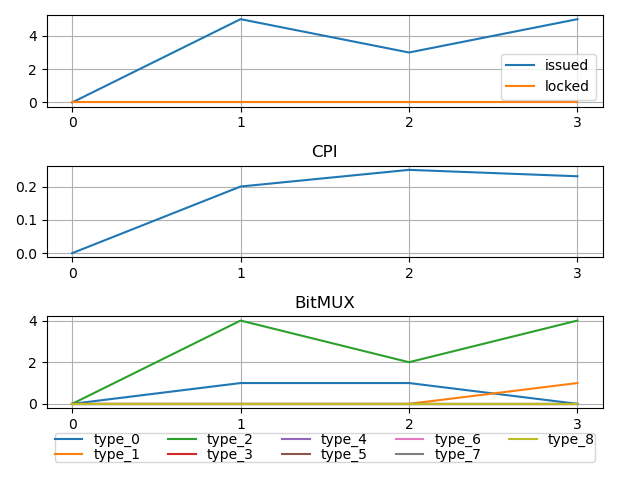
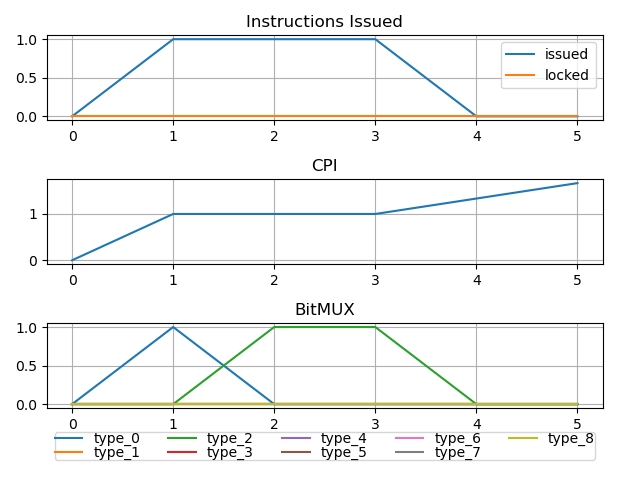
Final version

diff --git a/test.html b/test.html
@@ -14,145 +14,34 @@ body {
 </style>
 </head>
 <body>
-    <pre style="font-family:Menlo,'DejaVu Sans Mono',consolas,'Courier New',monospace"><code style="font-family:inherit"><span class="r1"> </span><span class="r1">3</span> <span class="r2">───────────────────────────────────────────────────────────────────────────────────────────────────────────────────────────────────────────────────────────────────────────────────────────</span>
-<span class="r3">                                              Hold Stations                                               </span>
-┏━━━━━━━━━━┳━━━━━┳━━━━━━━━━━━┳━━━━━━━━┳━━━━━┳━━━━━┳━━━━━━━━━━┳━━━━━━━━━━━━━┳━━━━━┳━━━━━┳━━━━━━━━┳━━━━━━━━┓
-┃<span class="r4"> occupied </span>┃<span class="r4"> HS  </span>┃<span class="r4"> case QSD? </span>┃<span class="r4"> bitMux </span>┃<span class="r4"> RP1 </span>┃<span class="r4"> RP2 </span>┃<span class="r4"> position </span>┃<span class="r4"> destination </span>┃<span class="r4"> FU1 </span>┃<span class="r4"> FU2 </span>┃<span class="r4"> value1 </span>┃<span class="r4"> value2 </span>┃
-┡━━━━━━━━━━╇━━━━━╇━━━━━━━━━━━╇━━━━━━━━╇━━━━━╇━━━━━╇━━━━━━━━━━╇━━━━━━━━━━━━━╇━━━━━╇━━━━━╇━━━━━━━━╇━━━━━━━━┩
-│    0     │ HS0 │   False   │        │     │     │          │             │     │     │        │        │
-│    0     │ HS1 │   False   │        │     │     │          │             │     │     │        │        │
-│    0     │ HS2 │   False   │        │     │     │          │             │     │     │        │        │
-│    0     │ HS3 │   False   │        │     │     │          │             │     │     │        │        │
-│    0     │ HS4 │   False   │        │     │     │          │             │     │     │        │        │
-│    0     │ HS5 │   False   │        │     │     │          │             │     │     │        │        │
-│    0     │ HS6 │   False   │        │     │     │          │             │     │     │        │        │
-│    0     │ HS7 │   False   │        │     │     │          │             │     │     │        │        │
-│    0     │ HS8 │   False   │        │     │     │          │             │     │     │        │        │
-│    0     │ HS9 │   False   │        │     │     │          │             │     │     │        │        │
-└──────────┴─────┴───────────┴────────┴─────┴─────┴──────────┴─────────────┴─────┴─────┴────────┴────────┘
-<span class="r3">                                                                               Functional Unit: alu                                                                                </span>
-╭─────────────────────────────────────────────────────────╮ ╭─────────────────────────────────────────────────────────╮ ╭─────────────────────────────────────────────────────────╮
-│ <span class="r3">                         alu_0                         </span> │ │ <span class="r3">                         alu_1                         </span> │ │ <span class="r3">                         alu_2                         </span> │
-│ ┏━━━━━┳━━━━━━┳━━━━┳━━━━━━━┳━━━━━━━┳━━━━━━━┳━━━━━━━━━━━┓ │ │ ┏━━━━━┳━━━━━━┳━━━━┳━━━━━━━┳━━━━━━━┳━━━━━━━┳━━━━━━━━━━━┓ │ │ ┏━━━━━┳━━━━━━┳━━━━┳━━━━━━━┳━━━━━━━┳━━━━━━━┳━━━━━━━━━━━┓ │
-│ ┃<span class="r4"> SS  </span>┃<span class="r4"> bMux </span>┃<span class="r4"> RP </span>┃<span class="r4">  FU1  </span>┃<span class="r4">  FU2  </span>┃<span class="r4"> value </span>┃<span class="r4"> instIndex </span>┃ │ │ ┃<span class="r4"> SS  </span>┃<span class="r4"> bMux </span>┃<span class="r4"> RP </span>┃<span class="r4">  FU1  </span>┃<span class="r4">  FU2  </span>┃<span class="r4"> value </span>┃<span class="r4"> instIndex </span>┃ │ │ ┃<span class="r4"> SS  </span>┃<span class="r4"> bMux </span>┃<span class="r4"> RP </span>┃<span class="r4">  FU1  </span>┃<span class="r4">  FU2  </span>┃<span class="r4"> value </span>┃<span class="r4"> instIndex </span>┃ │
-│ ┡━━━━━╇━━━━━━╇━━━━╇━━━━━━━╇━━━━━━━╇━━━━━━━╇━━━━━━━━━━━┩ │ │ ┡━━━━━╇━━━━━━╇━━━━╇━━━━━━━╇━━━━━━━╇━━━━━━━╇━━━━━━━━━━━┩ │ │ ┡━━━━━╇━━━━━━╇━━━━╇━━━━━━━╇━━━━━━━╇━━━━━━━╇━━━━━━━━━━━┩ │
-│ │ SS7 │      │    │       │       │       │           │ │ │ │ SS7 │      │    │       │       │       │           │ │ │ │ SS7 │      │    │       │       │       │           │ │
-│ │ SS6 │      │    │       │       │       │           │ │ │ │ SS6 │      │    │       │       │       │           │ │ │ │ SS6 │      │    │       │       │       │           │ │
-│ │ SS5 │      │    │       │       │       │           │ │ │ │ SS5 │      │    │       │       │       │           │ │ │ │ SS5 │  2   │ 3  │ alu_1 │ alu_2 │       │     4     │ │
-│ │ SS4 │      │    │       │       │       │           │ │ │ │ SS4 │      │    │       │       │       │           │ │ │ │ SS4 │      │    │       │       │       │           │ │
-│ │ SS3 │  2   │ 2  │ alu_2 │ alu_1 │       │     2     │ │ │ │ SS3 │  2   │ 2  │ alu_0 │ alu_1 │       │     3     │ │ │ │ SS3 │  2   │ 2  │ alu_1 │ alu_1 │       │     1     │ │
-│ │ SS2 │  2   │    │ alu_0 │ alu_0 │   1   │     6     │ │ │ │ SS2 │  2   │    │ alu_0 │ alu_1 │   1   │     4     │ │ │ │ SS2 │  2   │    │ alu_0 │ alu_2 │   1   │     5     │ │
-│ │ SS1 │      │    │       │       │       │           │ │ │ │ SS1 │  1   │    │  inm  │  R0   │   1   │     0     │ │ │ │ SS1 │      │    │       │       │       │           │ │
-│ │ SS0 │  2   │    │  R3   │ alu_0 │   6   │     3     │ │ │ │ SS0 │  2   │    │  R1   │ alu_0 │   2   │     1     │ │ │ │ SS0 │  2   │    │  R2   │ alu_0 │   4   │     2     │ │
-│ └─────┴──────┴────┴───────┴───────┴───────┴───────────┘ │ │ └─────┴──────┴────┴───────┴───────┴───────┴───────────┘ │ │ └─────┴──────┴────┴───────┴───────┴───────┴───────────┘ │
-│ <span class="r3">         QSD_0          </span>                                │ │ <span class="r3">         QSD_1          </span>                                │ │ <span class="r3">         QSD_2          </span>                                │
-│ ┏━━━━┳━━━━┳━━━━┳━━━━━━━┓                                │ │ ┏━━━━┳━━━━┳━━━━┳━━━━━━━┓                                │ │ ┏━━━━┳━━━━┳━━━━┳━━━━━━━┓                                │
-│ ┃<span class="r4"> P  </span>┃<span class="r4"> RP </span>┃<span class="r4"> FU </span>┃<span class="r4"> value </span>┃                                │ │ ┃<span class="r4"> P  </span>┃<span class="r4"> RP </span>┃<span class="r4"> FU </span>┃<span class="r4"> value </span>┃                                │ │ ┃<span class="r4"> P  </span>┃<span class="r4"> RP </span>┃<span class="r4"> FU </span>┃<span class="r4"> value </span>┃                                │
-│ ┡━━━━╇━━━━╇━━━━╇━━━━━━━┩                                │ │ ┡━━━━╇━━━━╇━━━━╇━━━━━━━┩                                │ │ ┡━━━━╇━━━━╇━━━━╇━━━━━━━┩                                │
-│ │ Q2 │    │    │ None  │                                │ │ │ Q2 │    │    │ None  │                                │ │ │ Q2 │    │    │ None  │                                │
-│ │ Q1 │    │    │ None  │                                │ │ │ Q1 │    │    │   1   │                                │ │ │ Q1 │    │    │ None  │                                │
-│ │ Q0 │    │    │   1   │                                │ │ │ Q0 │    │    │   1   │                                │ │ │ Q0 │    │    │   1   │                                │
-│ └────┴────┴────┴───────┘                                │ │ └────┴────┴────┴───────┘                                │ │ └────┴────┴────┴───────┘                                │
-╰─────────────────────────────────────────────────────────╯ ╰─────────────────────────────────────────────────────────╯ ╰─────────────────────────────────────────────────────────╯
+    <pre style="font-family:Menlo,'DejaVu Sans Mono',consolas,'Courier New',monospace"><code style="font-family:inherit"><span class="r1"> </span><span class="r1">5</span> <span class="r2">───────────────────────────────────────────────────────────────────────────────────────────────────────────────────────────────────────────────────────────────────────────────────────────</span>
+<span class="r3">                                                                           Functional Unit: alu                                                                            </span>
+╭─────────────────────────────────────────────────────╮ ╭─────────────────────────────────────────────────────╮ ╭─────────────────────────────────────────────────────────╮
+│ <span class="r3">                       alu_0                       </span> │ │ <span class="r3">                       alu_1                       </span> │ │ <span class="r3">                         alu_2                         </span> │
+│ ┏━━━━━┳━━━━━━┳━━━━┳━━━━━┳━━━━━┳━━━━━━━┳━━━━━━━━━━━┓ │ │ ┏━━━━━┳━━━━━━┳━━━━┳━━━━━┳━━━━━┳━━━━━━━┳━━━━━━━━━━━┓ │ │ ┏━━━━━┳━━━━━━┳━━━━┳━━━━━━━┳━━━━━━━┳━━━━━━━┳━━━━━━━━━━━┓ │
+│ ┃<span class="r4"> SS  </span>┃<span class="r4"> bMux </span>┃<span class="r4"> RP </span>┃<span class="r4"> FU1 </span>┃<span class="r4"> FU2 </span>┃<span class="r4"> value </span>┃<span class="r4"> instIndex </span>┃ │ │ ┃<span class="r4"> SS  </span>┃<span class="r4"> bMux </span>┃<span class="r4"> RP </span>┃<span class="r4"> FU1 </span>┃<span class="r4"> FU2 </span>┃<span class="r4"> value </span>┃<span class="r4"> instIndex </span>┃ │ │ ┃<span class="r4"> SS  </span>┃<span class="r4"> bMux </span>┃<span class="r4"> RP </span>┃<span class="r4">  FU1  </span>┃<span class="r4">  FU2  </span>┃<span class="r4"> value </span>┃<span class="r4"> instIndex </span>┃ │
+│ ┡━━━━━╇━━━━━━╇━━━━╇━━━━━╇━━━━━╇━━━━━━━╇━━━━━━━━━━━┩ │ │ ┡━━━━━╇━━━━━━╇━━━━╇━━━━━╇━━━━━╇━━━━━━━╇━━━━━━━━━━━┩ │ │ ┡━━━━━╇━━━━━━╇━━━━╇━━━━━━━╇━━━━━━━╇━━━━━━━╇━━━━━━━━━━━┩ │
+│ │ SS7 │      │    │     │     │       │           │ │ │ │ SS7 │      │    │     │     │       │           │ │ │ │ SS7 │      │    │       │       │       │           │ │
+│ │ SS6 │      │    │     │     │       │           │ │ │ │ SS6 │      │    │     │     │       │           │ │ │ │ SS6 │      │    │       │       │       │           │ │
+│ │ SS5 │      │    │     │     │       │           │ │ │ │ SS5 │      │    │     │     │       │           │ │ │ │ SS5 │      │    │       │       │       │           │ │
+│ │ SS4 │      │    │     │     │       │           │ │ │ │ SS4 │      │    │     │     │       │           │ │ │ │ SS4 │      │    │       │       │       │           │ │
+│ │ SS3 │      │    │     │     │       │           │ │ │ │ SS3 │      │    │     │     │       │           │ │ │ │ SS3 │      │    │       │       │       │           │ │
+│ │ SS2 │      │    │     │     │       │           │ │ │ │ SS2 │      │    │     │     │       │           │ │ │ │ SS2 │      │    │       │       │       │           │ │
+│ │ SS1 │      │    │     │     │       │           │ │ │ │ SS1 │      │    │     │     │       │           │ │ │ │ SS1 │      │    │       │       │       │           │ │
+│ │ SS0 │      │    │     │     │       │           │ │ │ │ SS0 │      │    │     │     │       │           │ │ │ │ SS0 │  2   │    │ alu_1 │ alu_1 │  10   │     2     │ │
+│ └─────┴──────┴────┴─────┴─────┴───────┴───────────┘ │ │ └─────┴──────┴────┴─────┴─────┴───────┴───────────┘ │ │ └─────┴──────┴────┴───────┴───────┴───────┴───────────┘ │
+│ <span class="r3">         QSD_0          </span>                            │ │ <span class="r3">         QSD_1          </span>                            │ │ <span class="r3">         QSD_2          </span>                                │
+│ ┏━━━━┳━━━━┳━━━━┳━━━━━━━┓                            │ │ ┏━━━━┳━━━━┳━━━━┳━━━━━━━┓                            │ │ ┏━━━━┳━━━━┳━━━━┳━━━━━━━┓                                │
+│ ┃<span class="r4"> P  </span>┃<span class="r4"> RP </span>┃<span class="r4"> FU </span>┃<span class="r4"> value </span>┃                            │ │ ┃<span class="r4"> P  </span>┃<span class="r4"> RP </span>┃<span class="r4"> FU </span>┃<span class="r4"> value </span>┃                            │ │ ┃<span class="r4"> P  </span>┃<span class="r4"> RP </span>┃<span class="r4"> FU </span>┃<span class="r4"> value </span>┃                                │
+│ ┡━━━━╇━━━━╇━━━━╇━━━━━━━┩                            │ │ ┡━━━━╇━━━━╇━━━━╇━━━━━━━┩                            │ │ ┡━━━━╇━━━━╇━━━━╇━━━━━━━┩                                │
+│ │ Q2 │    │    │ None  │                            │ │ │ Q2 │    │    │ None  │                            │ │ │ Q2 │    │    │ None  │                                │
+│ │ Q1 │    │    │ None  │                            │ │ │ Q1 │    │    │ None  │                            │ │ │ Q1 │    │    │ None  │                                │
+│ │ Q0 │    │    │ None  │                            │ │ │ Q0 │    │    │ None  │                            │ │ │ Q0 │    │    │  10   │                                │
+│ └────┴────┴────┴───────┘                            │ │ └────┴────┴────┴───────┘                            │ │ └────┴────┴────┴───────┘                                │
+╰─────────────────────────────────────────────────────╯ ╰─────────────────────────────────────────────────────╯ ╰─────────────────────────────────────────────────────────╯
 <span class="r3">                                                                         Functional Unit: MULT                                                                         </span>
 ╭─────────────────────────────────────────────────────╮ ╭─────────────────────────────────────────────────────╮ ╭─────────────────────────────────────────────────────╮
 │ <span class="r3">                      MULT_0                       </span> │ │ <span class="r3">                      MULT_1                       </span> │ │ <span class="r3">                      MULT_2                       </span> │
-│ ┏━━━━━┳━━━━━━┳━━━━┳━━━━━┳━━━━━┳━━━━━━━┳━━━━━━━━━━━┓ │ │ ┏━━━━━┳━━━━━━┳━━━━┳━━━━━┳━━━━━┳━━━━━━━┳━━━━━━━━━━━┓ │ │ ┏━━━━━┳━━━━━━┳━━━━┳━━━━━┳━━━━━┳━━━━━━━┳━━━━━━━━━━━┓ │
-│ ┃<span class="r4"> SS  </span>┃<span class="r4"> bMux </span>┃<span class="r4"> RP </span>┃<span class="r4"> FU1 </span>┃<span class="r4"> FU2 </span>┃<span class="r4"> value </span>┃<span class="r4"> instIndex </span>┃ │ │ ┃<span class="r4"> SS  </span>┃<span class="r4"> bMux </span>┃<span class="r4"> RP </span>┃<span class="r4"> FU1 </span>┃<span class="r4"> FU2 </span>┃<span class="r4"> value </span>┃<span class="r4"> instIndex </span>┃ │ │ ┃<span class="r4"> SS  </span>┃<span class="r4"> bMux </span>┃<span class="r4"> RP </span>┃<span class="r4"> FU1 </span>┃<span class="r4"> FU2 </span>┃<span class="r4"> value </span>┃<span class="r4"> instIndex </span>┃ │
-│ ┡━━━━━╇━━━━━━╇━━━━╇━━━━━╇━━━━━╇━━━━━━━╇━━━━━━━━━━━┩ │ │ ┡━━━━━╇━━━━━━╇━━━━╇━━━━━╇━━━━━╇━━━━━━━╇━━━━━━━━━━━┩ │ │ ┡━━━━━╇━━━━━━╇━━━━╇━━━━━╇━━━━━╇━━━━━━━╇━━━━━━━━━━━┩ │
-│ │ SS7 │      │    │     │     │       │           │ │ │ │ SS7 │      │    │     │     │       │           │ │ │ │ SS7 │      │    │     │     │       │           │ │
-│ │ SS6 │      │    │     │     │       │           │ │ │ │ SS6 │      │    │     │     │       │           │ │ │ │ SS6 │      │    │     │     │       │           │ │
-│ │ SS5 │      │    │     │     │       │           │ │ │ │ SS5 │      │    │     │     │       │           │ │ │ │ SS5 │      │    │     │     │       │           │ │
-│ │ SS4 │      │    │     │     │       │           │ │ │ │ SS4 │      │    │     │     │       │           │ │ │ │ SS4 │      │    │     │     │       │           │ │
-│ │ SS3 │      │    │     │     │       │           │ │ │ │ SS3 │      │    │     │     │       │           │ │ │ │ SS3 │      │    │     │     │       │           │ │
-│ │ SS2 │      │    │     │     │       │           │ │ │ │ SS2 │      │    │     │     │       │           │ │ │ │ SS2 │      │    │     │     │       │           │ │
-│ │ SS1 │      │    │     │     │       │           │ │ │ │ SS1 │      │    │     │     │       │           │ │ │ │ SS1 │      │    │     │     │       │           │ │
-│ │ SS0 │      │    │     │     │       │           │ │ │ │ SS0 │      │    │     │     │       │           │ │ │ │ SS0 │      │    │     │     │       │           │ │
-│ └─────┴──────┴────┴─────┴─────┴───────┴───────────┘ │ │ └─────┴──────┴────┴─────┴─────┴───────┴───────────┘ │ │ └─────┴──────┴────┴─────┴─────┴───────┴───────────┘ │
-│ <span class="r3">         QSD_0          </span>                            │ │ <span class="r3">         QSD_1          </span>                            │ │ <span class="r3">         QSD_2          </span>                            │
-│ ┏━━━━┳━━━━┳━━━━┳━━━━━━━┓                            │ │ ┏━━━━┳━━━━┳━━━━┳━━━━━━━┓                            │ │ ┏━━━━┳━━━━┳━━━━┳━━━━━━━┓                            │
-│ ┃<span class="r4"> P  </span>┃<span class="r4"> RP </span>┃<span class="r4"> FU </span>┃<span class="r4"> value </span>┃                            │ │ ┃<span class="r4"> P  </span>┃<span class="r4"> RP </span>┃<span class="r4"> FU </span>┃<span class="r4"> value </span>┃                            │ │ ┃<span class="r4"> P  </span>┃<span class="r4"> RP </span>┃<span class="r4"> FU </span>┃<span class="r4"> value </span>┃                            │
-│ ┡━━━━╇━━━━╇━━━━╇━━━━━━━┩                            │ │ ┡━━━━╇━━━━╇━━━━╇━━━━━━━┩                            │ │ ┡━━━━╇━━━━╇━━━━╇━━━━━━━┩                            │
-│ │ Q2 │    │    │ None  │                            │ │ │ Q2 │    │    │ None  │                            │ │ │ Q2 │    │    │ None  │                            │
-│ │ Q1 │    │    │ None  │                            │ │ │ Q1 │    │    │ None  │                            │ │ │ Q1 │    │    │ None  │                            │
-│ │ Q0 │    │    │ None  │                            │ │ │ Q0 │    │    │ None  │                            │ │ │ Q0 │    │    │ None  │                            │
-│ └────┴────┴────┴───────┘                            │ │ └────┴────┴────┴───────┘                            │ │ └────┴────┴────┴───────┘                            │
-╰─────────────────────────────────────────────────────╯ ╰─────────────────────────────────────────────────────╯ ╰─────────────────────────────────────────────────────╯
-<span class="r3">                                                                         Functional Unit: DIV                                                                          </span>
-╭─────────────────────────────────────────────────────╮ ╭─────────────────────────────────────────────────────╮ ╭─────────────────────────────────────────────────────╮
-│ <span class="r3">                       DIV_0                       </span> │ │ <span class="r3">                       DIV_1                       </span> │ │ <span class="r3">                       DIV_2                       </span> │
-│ ┏━━━━━┳━━━━━━┳━━━━┳━━━━━┳━━━━━┳━━━━━━━┳━━━━━━━━━━━┓ │ │ ┏━━━━━┳━━━━━━┳━━━━┳━━━━━┳━━━━━┳━━━━━━━┳━━━━━━━━━━━┓ │ │ ┏━━━━━┳━━━━━━┳━━━━┳━━━━━┳━━━━━┳━━━━━━━┳━━━━━━━━━━━┓ │
-│ ┃<span class="r4"> SS  </span>┃<span class="r4"> bMux </span>┃<span class="r4"> RP </span>┃<span class="r4"> FU1 </span>┃<span class="r4"> FU2 </span>┃<span class="r4"> value </span>┃<span class="r4"> instIndex </span>┃ │ │ ┃<span class="r4"> SS  </span>┃<span class="r4"> bMux </span>┃<span class="r4"> RP </span>┃<span class="r4"> FU1 </span>┃<span class="r4"> FU2 </span>┃<span class="r4"> value </span>┃<span class="r4"> instIndex </span>┃ │ │ ┃<span class="r4"> SS  </span>┃<span class="r4"> bMux </span>┃<span class="r4"> RP </span>┃<span class="r4"> FU1 </span>┃<span class="r4"> FU2 </span>┃<span class="r4"> value </span>┃<span class="r4"> instIndex </span>┃ │
-│ ┡━━━━━╇━━━━━━╇━━━━╇━━━━━╇━━━━━╇━━━━━━━╇━━━━━━━━━━━┩ │ │ ┡━━━━━╇━━━━━━╇━━━━╇━━━━━╇━━━━━╇━━━━━━━╇━━━━━━━━━━━┩ │ │ ┡━━━━━╇━━━━━━╇━━━━╇━━━━━╇━━━━━╇━━━━━━━╇━━━━━━━━━━━┩ │
-│ │ SS7 │      │    │     │     │       │           │ │ │ │ SS7 │      │    │     │     │       │           │ │ │ │ SS7 │      │    │     │     │       │           │ │
-│ │ SS6 │      │    │     │     │       │           │ │ │ │ SS6 │      │    │     │     │       │           │ │ │ │ SS6 │      │    │     │     │       │           │ │
-│ │ SS5 │      │    │     │     │       │           │ │ │ │ SS5 │      │    │     │     │       │           │ │ │ │ SS5 │      │    │     │     │       │           │ │
-│ │ SS4 │      │    │     │     │       │           │ │ │ │ SS4 │      │    │     │     │       │           │ │ │ │ SS4 │      │    │     │     │       │           │ │
-│ │ SS3 │      │    │     │     │       │           │ │ │ │ SS3 │      │    │     │     │       │           │ │ │ │ SS3 │      │    │     │     │       │           │ │
-│ │ SS2 │      │    │     │     │       │           │ │ │ │ SS2 │      │    │     │     │       │           │ │ │ │ SS2 │      │    │     │     │       │           │ │
-│ │ SS1 │      │    │     │     │       │           │ │ │ │ SS1 │      │    │     │     │       │           │ │ │ │ SS1 │      │    │     │     │       │           │ │
-│ │ SS0 │      │    │     │     │       │           │ │ │ │ SS0 │      │    │     │     │       │           │ │ │ │ SS0 │      │    │     │     │       │           │ │
-│ └─────┴──────┴────┴─────┴─────┴───────┴───────────┘ │ │ └─────┴──────┴────┴─────┴─────┴───────┴───────────┘ │ │ └─────┴──────┴────┴─────┴─────┴───────┴───────────┘ │
-│ <span class="r3">         QSD_0          </span>                            │ │ <span class="r3">         QSD_1          </span>                            │ │ <span class="r3">         QSD_2          </span>                            │
-│ ┏━━━━┳━━━━┳━━━━┳━━━━━━━┓                            │ │ ┏━━━━┳━━━━┳━━━━┳━━━━━━━┓                            │ │ ┏━━━━┳━━━━┳━━━━┳━━━━━━━┓                            │
-│ ┃<span class="r4"> P  </span>┃<span class="r4"> RP </span>┃<span class="r4"> FU </span>┃<span class="r4"> value </span>┃                            │ │ ┃<span class="r4"> P  </span>┃<span class="r4"> RP </span>┃<span class="r4"> FU </span>┃<span class="r4"> value </span>┃                            │ │ ┃<span class="r4"> P  </span>┃<span class="r4"> RP </span>┃<span class="r4"> FU </span>┃<span class="r4"> value </span>┃                            │
-│ ┡━━━━╇━━━━╇━━━━╇━━━━━━━┩                            │ │ ┡━━━━╇━━━━╇━━━━╇━━━━━━━┩                            │ │ ┡━━━━╇━━━━╇━━━━╇━━━━━━━┩                            │
-│ │ Q2 │    │    │ None  │                            │ │ │ Q2 │    │    │ None  │                            │ │ │ Q2 │    │    │ None  │                            │
-│ │ Q1 │    │    │ None  │                            │ │ │ Q1 │    │    │ None  │                            │ │ │ Q1 │    │    │ None  │                            │
-│ │ Q0 │    │    │ None  │                            │ │ │ Q0 │    │    │ None  │                            │ │ │ Q0 │    │    │ None  │                            │
-│ └────┴────┴────┴───────┘                            │ │ └────┴────┴────┴───────┘                            │ │ └────┴────┴────┴───────┘                            │
-╰─────────────────────────────────────────────────────╯ ╰─────────────────────────────────────────────────────╯ ╰─────────────────────────────────────────────────────╯
-<span class="r3">                                                                        Functional Unit: TRANS                                                                         </span>
-╭─────────────────────────────────────────────────────╮ ╭─────────────────────────────────────────────────────╮ ╭─────────────────────────────────────────────────────╮
-│ <span class="r3">                      TRANS_0                      </span> │ │ <span class="r3">                      TRANS_1                      </span> │ │ <span class="r3">                      TRANS_2                      </span> │
-│ ┏━━━━━┳━━━━━━┳━━━━┳━━━━━┳━━━━━┳━━━━━━━┳━━━━━━━━━━━┓ │ │ ┏━━━━━┳━━━━━━┳━━━━┳━━━━━┳━━━━━┳━━━━━━━┳━━━━━━━━━━━┓ │ │ ┏━━━━━┳━━━━━━┳━━━━┳━━━━━┳━━━━━┳━━━━━━━┳━━━━━━━━━━━┓ │
-│ ┃<span class="r4"> SS  </span>┃<span class="r4"> bMux </span>┃<span class="r4"> RP </span>┃<span class="r4"> FU1 </span>┃<span class="r4"> FU2 </span>┃<span class="r4"> value </span>┃<span class="r4"> instIndex </span>┃ │ │ ┃<span class="r4"> SS  </span>┃<span class="r4"> bMux </span>┃<span class="r4"> RP </span>┃<span class="r4"> FU1 </span>┃<span class="r4"> FU2 </span>┃<span class="r4"> value </span>┃<span class="r4"> instIndex </span>┃ │ │ ┃<span class="r4"> SS  </span>┃<span class="r4"> bMux </span>┃<span class="r4"> RP </span>┃<span class="r4"> FU1 </span>┃<span class="r4"> FU2 </span>┃<span class="r4"> value </span>┃<span class="r4"> instIndex </span>┃ │
-│ ┡━━━━━╇━━━━━━╇━━━━╇━━━━━╇━━━━━╇━━━━━━━╇━━━━━━━━━━━┩ │ │ ┡━━━━━╇━━━━━━╇━━━━╇━━━━━╇━━━━━╇━━━━━━━╇━━━━━━━━━━━┩ │ │ ┡━━━━━╇━━━━━━╇━━━━╇━━━━━╇━━━━━╇━━━━━━━╇━━━━━━━━━━━┩ │
-│ │ SS7 │      │    │     │     │       │           │ │ │ │ SS7 │      │    │     │     │       │           │ │ │ │ SS7 │      │    │     │     │       │           │ │
-│ │ SS6 │      │    │     │     │       │           │ │ │ │ SS6 │      │    │     │     │       │           │ │ │ │ SS6 │      │    │     │     │       │           │ │
-│ │ SS5 │      │    │     │     │       │           │ │ │ │ SS5 │      │    │     │     │       │           │ │ │ │ SS5 │      │    │     │     │       │           │ │
-│ │ SS4 │      │    │     │     │       │           │ │ │ │ SS4 │      │    │     │     │       │           │ │ │ │ SS4 │      │    │     │     │       │           │ │
-│ │ SS3 │      │    │     │     │       │           │ │ │ │ SS3 │      │    │     │     │       │           │ │ │ │ SS3 │      │    │     │     │       │           │ │
-│ │ SS2 │      │    │     │     │       │           │ │ │ │ SS2 │      │    │     │     │       │           │ │ │ │ SS2 │      │    │     │     │       │           │ │
-│ │ SS1 │      │    │     │     │       │           │ │ │ │ SS1 │      │    │     │     │       │           │ │ │ │ SS1 │      │    │     │     │       │           │ │
-│ │ SS0 │      │    │     │     │       │           │ │ │ │ SS0 │      │    │     │     │       │           │ │ │ │ SS0 │      │    │     │     │       │           │ │
-│ └─────┴──────┴────┴─────┴─────┴───────┴───────────┘ │ │ └─────┴──────┴────┴─────┴─────┴───────┴───────────┘ │ │ └─────┴──────┴────┴─────┴─────┴───────┴───────────┘ │
-│ <span class="r3">         QSD_0          </span>                            │ │ <span class="r3">         QSD_1          </span>                            │ │ <span class="r3">         QSD_2          </span>                            │
-│ ┏━━━━┳━━━━┳━━━━┳━━━━━━━┓                            │ │ ┏━━━━┳━━━━┳━━━━┳━━━━━━━┓                            │ │ ┏━━━━┳━━━━┳━━━━┳━━━━━━━┓                            │
-│ ┃<span class="r4"> P  </span>┃<span class="r4"> RP </span>┃<span class="r4"> FU </span>┃<span class="r4"> value </span>┃                            │ │ ┃<span class="r4"> P  </span>┃<span class="r4"> RP </span>┃<span class="r4"> FU </span>┃<span class="r4"> value </span>┃                            │ │ ┃<span class="r4"> P  </span>┃<span class="r4"> RP </span>┃<span class="r4"> FU </span>┃<span class="r4"> value </span>┃                            │
-│ ┡━━━━╇━━━━╇━━━━╇━━━━━━━┩                            │ │ ┡━━━━╇━━━━╇━━━━╇━━━━━━━┩                            │ │ ┡━━━━╇━━━━╇━━━━╇━━━━━━━┩                            │
-│ │ Q2 │    │    │ None  │                            │ │ │ Q2 │    │    │ None  │                            │ │ │ Q2 │    │    │ None  │                            │
-│ │ Q1 │    │    │ None  │                            │ │ │ Q1 │    │    │ None  │                            │ │ │ Q1 │    │    │ None  │                            │
-│ │ Q0 │    │    │ None  │                            │ │ │ Q0 │    │    │ None  │                            │ │ │ Q0 │    │    │ None  │                            │
-│ └────┴────┴────┴───────┘                            │ │ └────┴────┴────┴───────┘                            │ │ └────┴────┴────┴───────┘                            │
-╰─────────────────────────────────────────────────────╯ ╰─────────────────────────────────────────────────────╯ ╰─────────────────────────────────────────────────────╯
-<span class="r3">                                                                        Functional Unit: STORE                                                                         </span>
-╭─────────────────────────────────────────────────────╮ ╭─────────────────────────────────────────────────────╮ ╭─────────────────────────────────────────────────────╮
-│ <span class="r3">                      STORE_0                      </span> │ │ <span class="r3">                      STORE_1                      </span> │ │ <span class="r3">                      STORE_2                      </span> │
-│ ┏━━━━━┳━━━━━━┳━━━━┳━━━━━┳━━━━━┳━━━━━━━┳━━━━━━━━━━━┓ │ │ ┏━━━━━┳━━━━━━┳━━━━┳━━━━━┳━━━━━┳━━━━━━━┳━━━━━━━━━━━┓ │ │ ┏━━━━━┳━━━━━━┳━━━━┳━━━━━┳━━━━━┳━━━━━━━┳━━━━━━━━━━━┓ │
-│ ┃<span class="r4"> SS  </span>┃<span class="r4"> bMux </span>┃<span class="r4"> RP </span>┃<span class="r4"> FU1 </span>┃<span class="r4"> FU2 </span>┃<span class="r4"> value </span>┃<span class="r4"> instIndex </span>┃ │ │ ┃<span class="r4"> SS  </span>┃<span class="r4"> bMux </span>┃<span class="r4"> RP </span>┃<span class="r4"> FU1 </span>┃<span class="r4"> FU2 </span>┃<span class="r4"> value </span>┃<span class="r4"> instIndex </span>┃ │ │ ┃<span class="r4"> SS  </span>┃<span class="r4"> bMux </span>┃<span class="r4"> RP </span>┃<span class="r4"> FU1 </span>┃<span class="r4"> FU2 </span>┃<span class="r4"> value </span>┃<span class="r4"> instIndex </span>┃ │
-│ ┡━━━━━╇━━━━━━╇━━━━╇━━━━━╇━━━━━╇━━━━━━━╇━━━━━━━━━━━┩ │ │ ┡━━━━━╇━━━━━━╇━━━━╇━━━━━╇━━━━━╇━━━━━━━╇━━━━━━━━━━━┩ │ │ ┡━━━━━╇━━━━━━╇━━━━╇━━━━━╇━━━━━╇━━━━━━━╇━━━━━━━━━━━┩ │
-│ │ SS7 │      │    │     │     │       │           │ │ │ │ SS7 │      │    │     │     │       │           │ │ │ │ SS7 │      │    │     │     │       │           │ │
-│ │ SS6 │      │    │     │     │       │           │ │ │ │ SS6 │      │    │     │     │       │           │ │ │ │ SS6 │      │    │     │     │       │           │ │
-│ │ SS5 │      │    │     │     │       │           │ │ │ │ SS5 │      │    │     │     │       │           │ │ │ │ SS5 │      │    │     │     │       │           │ │
-│ │ SS4 │      │    │     │     │       │           │ │ │ │ SS4 │      │    │     │     │       │           │ │ │ │ SS4 │      │    │     │     │       │           │ │
-│ │ SS3 │      │    │     │     │       │           │ │ │ │ SS3 │      │    │     │     │       │           │ │ │ │ SS3 │      │    │     │     │       │           │ │
-│ │ SS2 │      │    │     │     │       │           │ │ │ │ SS2 │      │    │     │     │       │           │ │ │ │ SS2 │      │    │     │     │       │           │ │
-│ │ SS1 │      │    │     │     │       │           │ │ │ │ SS1 │      │    │     │     │       │           │ │ │ │ SS1 │      │    │     │     │       │           │ │
-│ │ SS0 │      │    │     │     │       │           │ │ │ │ SS0 │      │    │     │     │       │           │ │ │ │ SS0 │      │    │     │     │       │           │ │
-│ └─────┴──────┴────┴─────┴─────┴───────┴───────────┘ │ │ └─────┴──────┴────┴─────┴─────┴───────┴───────────┘ │ │ └─────┴──────┴────┴─────┴─────┴───────┴───────────┘ │
-│ <span class="r3">         QSD_0          </span>                            │ │ <span class="r3">         QSD_1          </span>                            │ │ <span class="r3">         QSD_2          </span>                            │
-│ ┏━━━━┳━━━━┳━━━━┳━━━━━━━┓                            │ │ ┏━━━━┳━━━━┳━━━━┳━━━━━━━┓                            │ │ ┏━━━━┳━━━━┳━━━━┳━━━━━━━┓                            │
-│ ┃<span class="r4"> P  </span>┃<span class="r4"> RP </span>┃<span class="r4"> FU </span>┃<span class="r4"> value </span>┃                            │ │ ┃<span class="r4"> P  </span>┃<span class="r4"> RP </span>┃<span class="r4"> FU </span>┃<span class="r4"> value </span>┃                            │ │ ┃<span class="r4"> P  </span>┃<span class="r4"> RP </span>┃<span class="r4"> FU </span>┃<span class="r4"> value </span>┃                            │
-│ ┡━━━━╇━━━━╇━━━━╇━━━━━━━┩                            │ │ ┡━━━━╇━━━━╇━━━━╇━━━━━━━┩                            │ │ ┡━━━━╇━━━━╇━━━━╇━━━━━━━┩                            │
-│ │ Q2 │    │    │ None  │                            │ │ │ Q2 │    │    │ None  │                            │ │ │ Q2 │    │    │ None  │                            │
-│ │ Q1 │    │    │ None  │                            │ │ │ Q1 │    │    │ None  │                            │ │ │ Q1 │    │    │ None  │                            │
-│ │ Q0 │    │    │ None  │                            │ │ │ Q0 │    │    │ None  │                            │ │ │ Q0 │    │    │ None  │                            │
-│ └────┴────┴────┴───────┘                            │ │ └────┴────┴────┴───────┘                            │ │ └────┴────┴────┴───────┘                            │
-╰─────────────────────────────────────────────────────╯ ╰─────────────────────────────────────────────────────╯ ╰─────────────────────────────────────────────────────╯
-<span class="r3">                                                                         Functional Unit: LOAD                                                                         </span>
-╭─────────────────────────────────────────────────────╮ ╭─────────────────────────────────────────────────────╮ ╭─────────────────────────────────────────────────────╮
-│ <span class="r3">                      LOAD_0                       </span> │ │ <span class="r3">                      LOAD_1                       </span> │ │ <span class="r3">                      LOAD_2                       </span> │
 │ ┏━━━━━┳━━━━━━┳━━━━┳━━━━━┳━━━━━┳━━━━━━━┳━━━━━━━━━━━┓ │ │ ┏━━━━━┳━━━━━━┳━━━━┳━━━━━┳━━━━━┳━━━━━━━┳━━━━━━━━━━━┓ │ │ ┏━━━━━┳━━━━━━┳━━━━┳━━━━━┳━━━━━┳━━━━━━━┳━━━━━━━━━━━┓ │
 │ ┃<span class="r4"> SS  </span>┃<span class="r4"> bMux </span>┃<span class="r4"> RP </span>┃<span class="r4"> FU1 </span>┃<span class="r4"> FU2 </span>┃<span class="r4"> value </span>┃<span class="r4"> instIndex </span>┃ │ │ ┃<span class="r4"> SS  </span>┃<span class="r4"> bMux </span>┃<span class="r4"> RP </span>┃<span class="r4"> FU1 </span>┃<span class="r4"> FU2 </span>┃<span class="r4"> value </span>┃<span class="r4"> instIndex </span>┃ │ │ ┃<span class="r4"> SS  </span>┃<span class="r4"> bMux </span>┃<span class="r4"> RP </span>┃<span class="r4"> FU1 </span>┃<span class="r4"> FU2 </span>┃<span class="r4"> value </span>┃<span class="r4"> instIndex </span>┃ │
 │ ┡━━━━━╇━━━━━━╇━━━━╇━━━━━╇━━━━━╇━━━━━━━╇━━━━━━━━━━━┩ │ │ ┡━━━━━╇━━━━━━╇━━━━╇━━━━━╇━━━━━╇━━━━━━━╇━━━━━━━━━━━┩ │ │ ┡━━━━━╇━━━━━━╇━━━━╇━━━━━╇━━━━━╇━━━━━━━╇━━━━━━━━━━━┩ │
@@ -178,13 +67,13 @@ body {
 ┏━━━━━━━━━━┳━━━━┳━━━━━━━┳━━━━━━━┳━━━━━━━━┓
 ┃<span class="r4"> Register </span>┃<span class="r4"> RP </span>┃<span class="r4">  FU   </span>┃<span class="r4"> value </span>┃<span class="r4"> locked </span>┃
 ┡━━━━━━━━━━╇━━━━╇━━━━━━━╇━━━━━━━╇━━━━━━━━┩
-│    R0    │ +3 │ alu_1 │ None  │ False  │
-│    R1    │ +5 │ alu_2 │ None  │ False  │
-│    R2    │ +5 │ alu_0 │ None  │ False  │
-│    R3    │ +5 │ alu_1 │ None  │ False  │
-│    R4    │ +7 │ alu_2 │ None  │ False  │
-│    R5    │ +4 │ alu_2 │ None  │ False  │
-│    R6    │ +4 │ alu_0 │ None  │ False  │
+│    R0    │ +0 │       │   0   │ False  │
+│    R1    │ +0 │       │   2   │ False  │
+│    R2    │ +2 │ alu_2 │ None  │ False  │
+│    R3    │ +0 │       │   6   │ False  │
+│    R4    │ +0 │       │   8   │ False  │
+│    R5    │ +0 │       │  10   │ False  │
+│    R6    │ +0 │       │  12   │ False  │
 └──────────┴────┴───────┴───────┴────────┘
 </code></pre>
 </body>

diff --git a/statistics.py b/statistics.py
@@ -58,7 +58,7 @@ class Statistics:
         lock_aux = self.stats["inst_lock"].diff().fillna(0)
         axs[0].plot(x,issued_aux, label='issued')
         axs[0].plot(x,lock_aux, label='locked')
-        #axs[0].set_title('Sine Function')
+        axs[0].set_title('Instructions Ιssued')
         axs[0].legend()
         axs[0].grid(True)
         axs[0].set_xticks(x, x)
